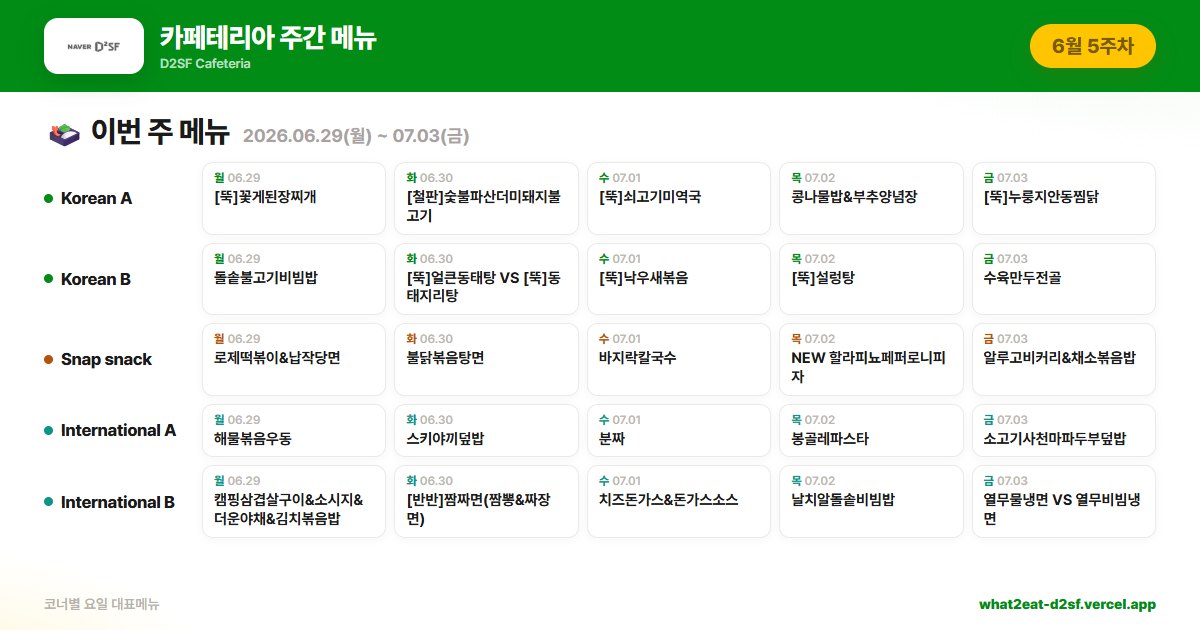
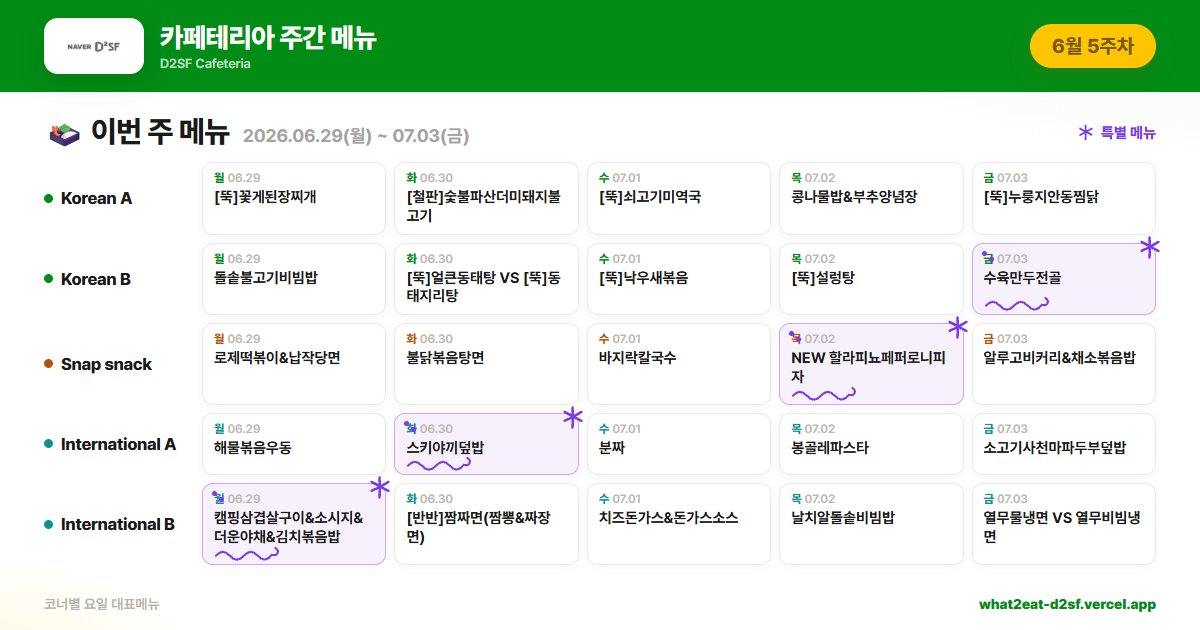
프리뷰: 단가(보라색) 스페셜 메뉴에 수기 낙서 마크 추가 (별표/돼지꼬리/땡땡 + 특별 메뉴 범례)
- generate-og.mjs: set.tag=단가 셀에 손그림 도들 + 연보라 배경, 우상단 범례
- index.html: og:image r=5 (이미지 변경 캐시 무효화)

diff --git a/index.html b/index.html
@@ -17,13 +17,13 @@
     <meta property="og:url" content="https://what2eat-d2sf.vercel.app/" />
     <meta property="og:title" content="D2SF 카페테리아 — 이번 주 메뉴" />
     <meta property="og:description" content="🍴 오늘 뭐 먹지? 메뉴 검색부터 칼로리 분석까지, 점심 고민은 여기서 끝" />
-    <meta property="og:image" content="https://what2eat-d2sf.vercel.app/api/og?r=4" />
+    <meta property="og:image" content="https://what2eat-d2sf.vercel.app/api/og?r=5" />
     <meta property="og:image:width" content="1200" />
     <meta property="og:image:height" content="630" />
     <meta name="twitter:card" content="summary_large_image" />
     <meta name="twitter:title" content="D2SF 카페테리아 — 이번 주 메뉴" />
     <meta name="twitter:description" content="🍴 오늘 뭐 먹지? 메뉴 검색부터 칼로리 분석까지, 점심 고민은 여기서 끝" />
-    <meta name="twitter:image" content="https://what2eat-d2sf.vercel.app/api/og?r=4" />
+    <meta name="twitter:image" content="https://what2eat-d2sf.vercel.app/api/og?r=5" />
     <!-- /OG -->
   </head>
   <body>

diff --git a/AUTOUPDATE.md b/AUTOUPDATE.md
@@ -32,7 +32,7 @@
 - `src/data/index.js`에서 새 주차를 import하고 `weeks` 배열 **맨 앞**에 넣는다(최신이 기본 선택).
 
 ## STEP 5 — 에셋 생성·검증
-- `npm install` → `npm run og` (public/og.png 1장 재생성 — 코너별 요일 대표메뉴 주간 프리뷰, puppeteer/Chromium 필요).
+- `npm install` → `npm run og` (public/og.png 1장 재생성 — 코너별 요일 대표메뉴 주간 프리뷰, puppeteer/Chromium 필요). `단가` 태그(보라색 스페셜) 셀엔 자동으로 수기 낙서 마크가 표시된다.
   - Chromium이 없어 `npm run og`가 실패하면 **데이터 변경은 그대로 진행**하고 최종 보고에 "OG 미생성" 명시.
 - `npm run build`로 데이터 컴파일 검증.
 
